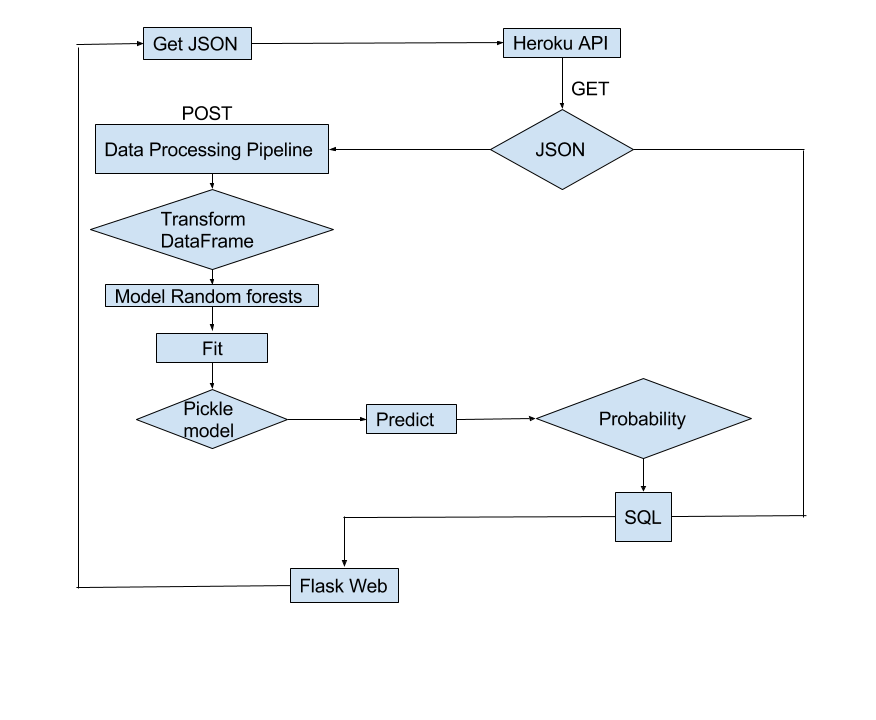
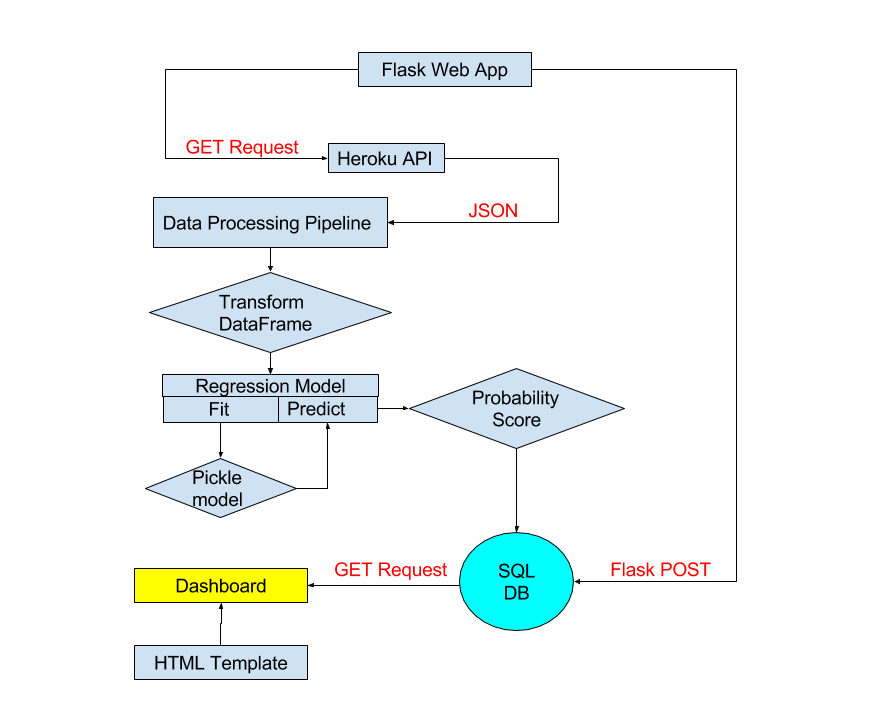
readme

diff --git a/README.md b/README.md
@@ -1,7 +1,11 @@
 # Fraud Detection Case Study
 # Galvanize Data Science Immersive
 
--- Tyler Carstensen, Wallace Printz, Sanhita Joshi
+Authors:
+* Tyler Carstensen
+* Wallace Printz
+* Sanhita Joshi
+
 Fraud Detection Model for &lt;event-company>. Dataset is not shared on git due to confidentiality.
 
 ---
@@ -132,10 +136,25 @@ print 'Confusion matrix :\n', confusion_matrix(y_test, y_pred)
 
 ---
 
-# Data management Pipelines
+# Data Processing Flow
 
-[Show data management flow]
+![Data Flowchart](images/flow_chart_fraud_detection.png)
 
+
+The logical flow is controlled through a Flask app, where data is pulled from a web-hosted API and a prediction made through the fitted model.  The prediction score and associated information is stored in the PostgreSQL database.  The Flask app then calls a Jinja2 template to query the SQL database to return the predictions sorted by fraud likelihood, then updates the HTML dashboard.
+
+Multiple technologies were used to implement a solution:
+* sci-kit-learn
+* statsmodels
+* matplotlib
+* requests
+* pandas
+* numpy
+* Flask
+* Jinja2
+* PostgreSQL
+* psycopg2
+* Jupyter notebook
 
 ---
 
@@ -145,3 +164,5 @@ A Flask web app was implemented to draw fraudulent events from the PostgreSQL da
 * risk_score = probability_of_fraud * total_payout
 
 This allows company fraud investigators to quickly focus on the events most likely to have the largest financial impact to the company.
+
+![Dashboard](images/flow_chart_fraud_detection.png)
